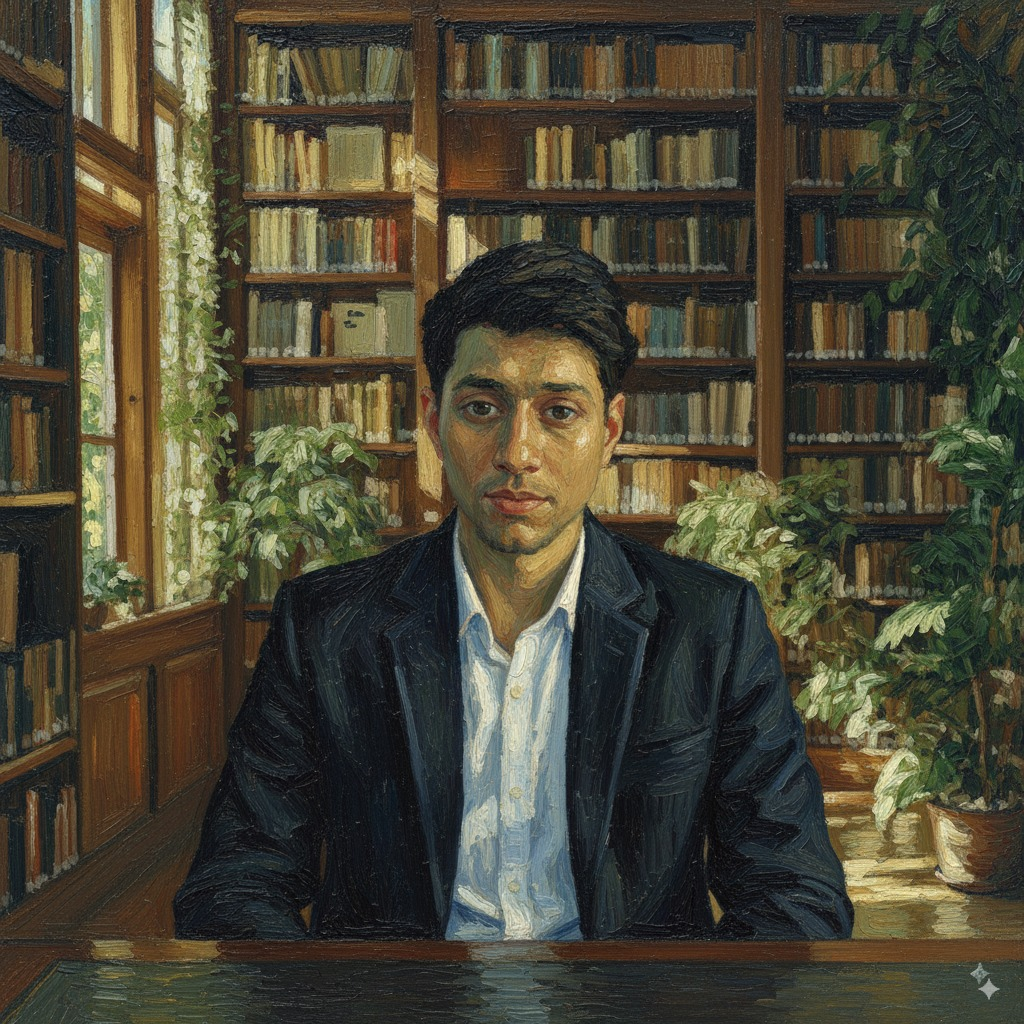
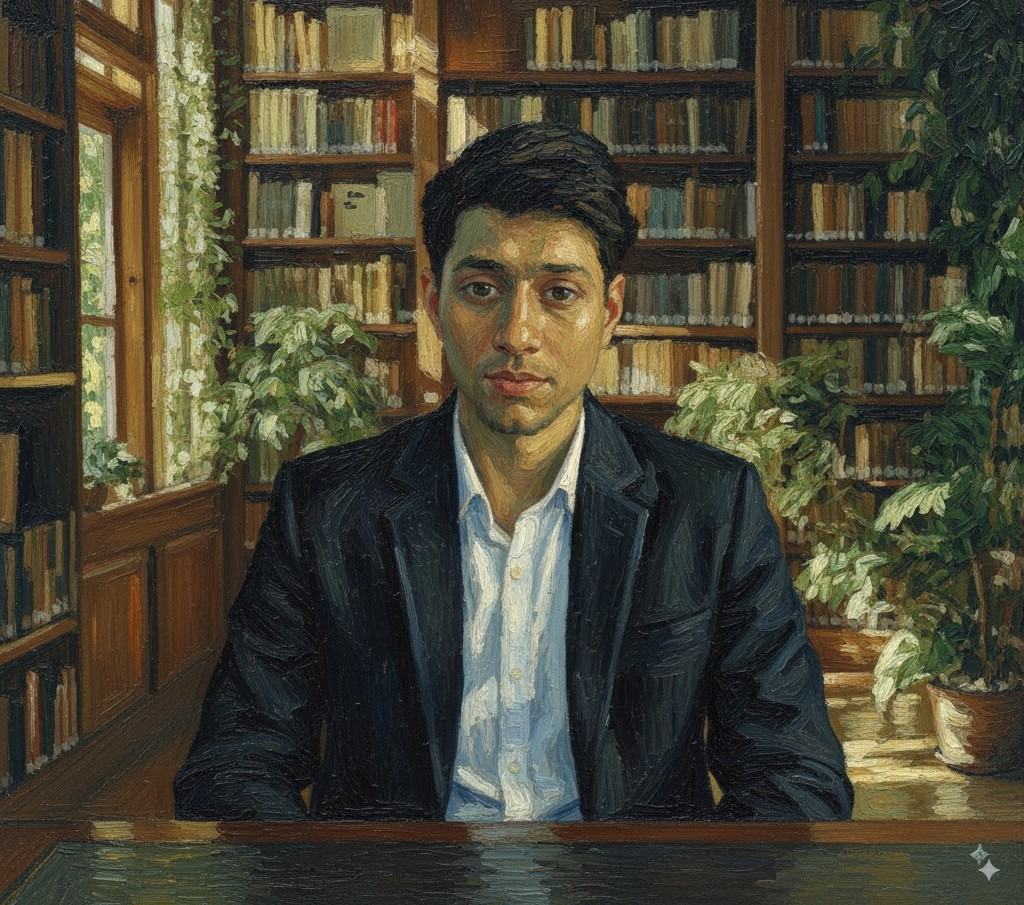
Updated cropped cover image and finalized positioning for both desktop and mobile views

diff --git a/styles.css b/styles.css
@@ -188,7 +188,7 @@ main {
     object-fit: cover;
     z-index: 0;
     opacity: 0.85;
-    object-position: center 45%; /* Adjust to show face better on desktop */
+    object-position: center 30%; /* Adjust to show face better on desktop */
 }
 
 .hero-content {
@@ -651,7 +651,7 @@ footer p {
     
     .hero-content {
         padding: 0 25px;
-        transform: translateY(70%); /* Adjust text position for mobile */
+        transform: translateY(50%); /* Adjust text position for mobile */
     }
     
     .hero-content h1 {
